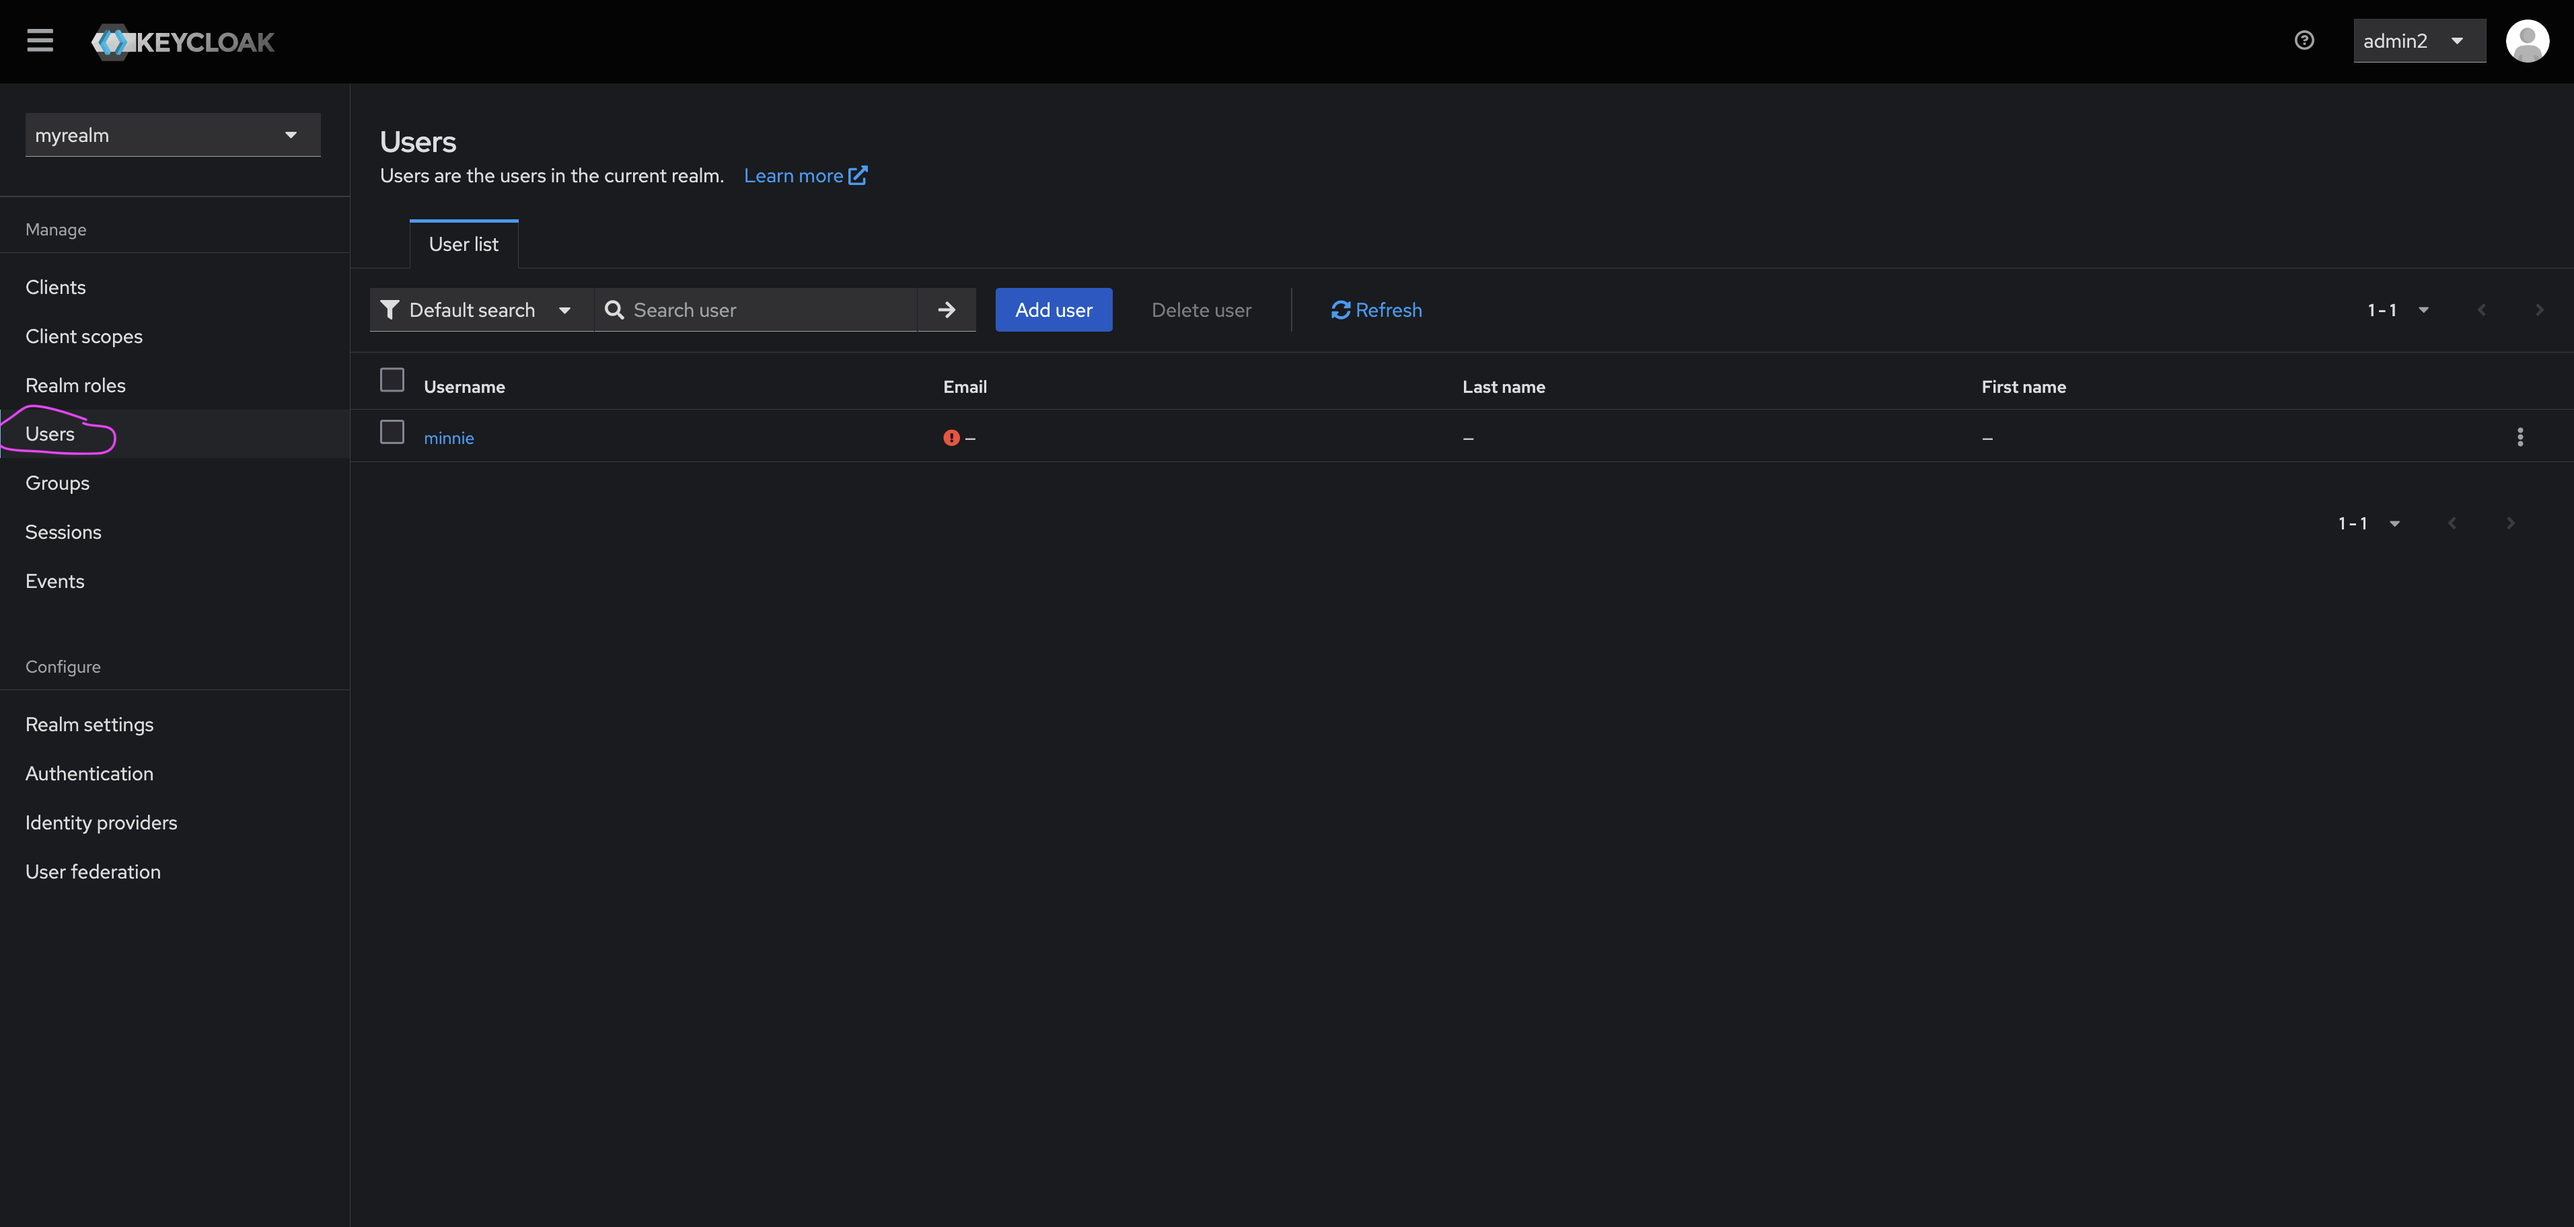
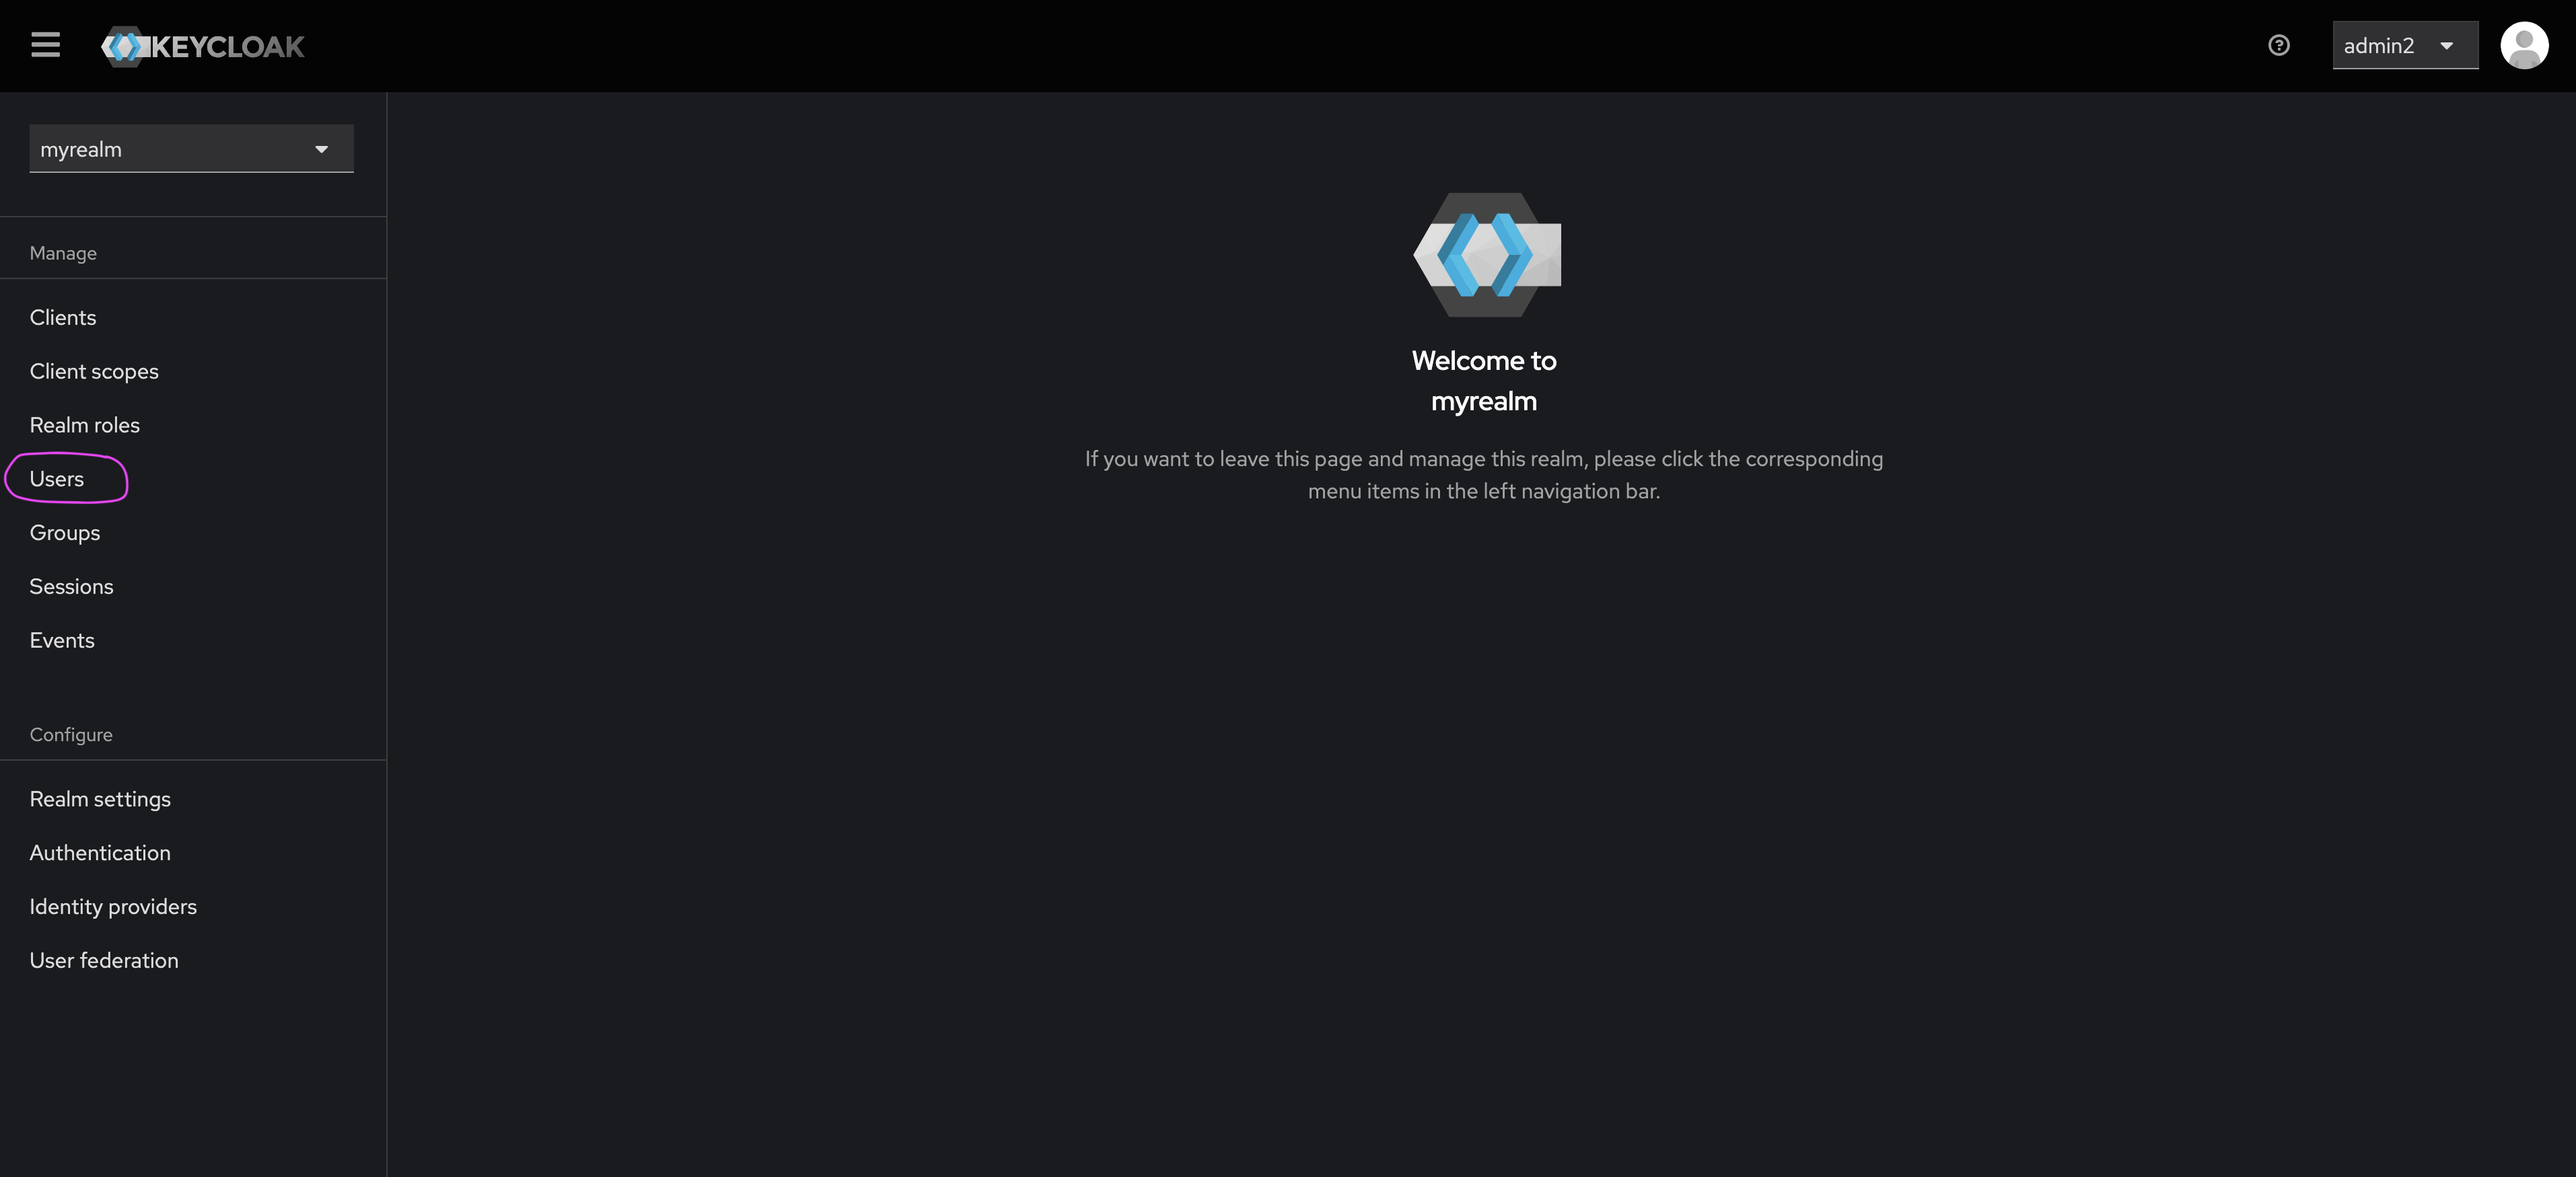
Add new images and further content

diff --git a/docs/_connect-with-keycloak/03-add-identity-provider.md b/docs/_connect-with-keycloak/03-add-identity-provider.md
@@ -51,9 +51,29 @@ If you click on the 'Identity providers' option (in the left-hand menu bar), you
 ### Logging in with the new identity provider
 
 * First ensure that the users you wish to authenticate with this identity provider have been added to the selected 
-  realm (in this case, it is 'myrealm').
-* After creating the new identity provider, click on 'Users' in the left-hand menu bar.
-* When next signing in, you will see the option to sign in with 'oidc' (or whatever `alias` you chose to identify your identity provider).
+  realm. 
+  * After creating the new identity provider, click on 'Users' in the left-hand menu bar.
+
+![Users Link](/assets/images/connect-with-keycloak/navigate-to-users.png)
+
+* Click on the user you wish to authenticate with the new identity provider.
+
+![Add Selected User](/assets/images/connect-with-keycloak/add-selected-user.png)
+
+* In the User Profile, click on identity provider links.
+
+![Link User to IdP](/assets/images/connect-with-keycloak/idp-link.png)
+
+* Click 'Link account' next to the new identity provider (in this case, 'oidc').
+
+![Link Account](/assets/images/connect-with-keycloak/link-user-account.png)
+
+* You will see that the user account and the identity provider have been linked.
+
+![Linked Account](/assets/images/connect-with-keycloak/linked-user-account.png)
+
+* When next signing in as a user, you will see the option to sign in with 'oidc' (or whatever `alias` you chose to 
+  identify your identity provider).
 * Click on 'oidc'.
 
 ![Sign in with oidc](/assets/images/connect-with-keycloak/sign-in-with-oidc.png)

diff --git a/docs/_connect-with-keycloak/02-get-started.md b/docs/_connect-with-keycloak/02-get-started.md
@@ -33,3 +33,16 @@ duration: 3
 * Within your new realm, click on 'Users' in the left hand menu bar.
 
 ![Users Link](/assets/images/connect-with-keycloak/navigate-to-users.png)
+
+* Click on 'Create new user'.
+
+![Add User Link](/assets/images/connect-with-keycloak/create-new-user.png)
+
+* Fill in the required fields for the new user and click 'Create'.
+
+![Add User Form](/assets/images/connect-with-keycloak/add-user-form.png)
+
+* To add further details to the user such as credentials, roles, groups, etc., click on the tabs at the top of the 
+  user details. For further information regarding the configuration of users refer to the [Keycloak documentation](https://www.keycloak.org/documentation).
+
+![User Tab](/assets/images/connect-with-keycloak/user-tab.png)
